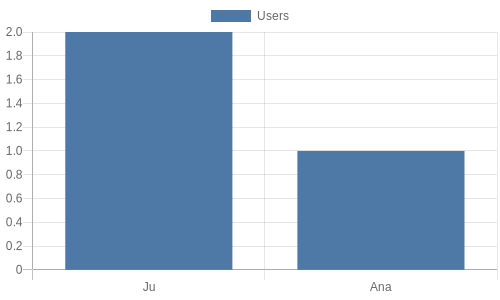
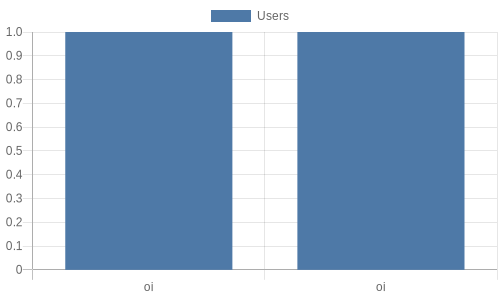
pdf com grafico

diff --git a/src/pdf/content.service.ts b/src/pdf/content.service.ts
@@ -2,11 +2,12 @@ import { Personal } from "@prisma/client";
 import PDFKit from 'pdfkit';
 import { Injectable } from "@nestjs/common";
 import { GenerateHLService } from "./generateHL.service";
+import { ChartService } from "src/chart/charts.service";
 
 // export default (doc: PDFKit.PDFDocument, data: Personal[]) => {
 @Injectable()
 export class ContentService {
-  constructor(private readonly service: GenerateHLService) { }
+  constructor(private readonly service: GenerateHLService, private readonly service2: ChartService) { }
 
   async content(doc: PDFKit.PDFDocument, data: Personal[]) {
     let position = 182;
@@ -37,6 +38,8 @@ export class ContentService {
       doc.font('Helvetica').text(item.cpf, 200, position);
     }
     position = tableTop + data.length * 20 + 20;
+
+    const tabela = await this.service2.generate(1,"oi",1,"oi")
 
     const HL = await this.service.generateHL(doc, 24, 571, position)
   };

diff --git a/src/pdf/pdf.module.ts b/src/pdf/pdf.module.ts
@@ -5,10 +5,11 @@ import { PostPDFController } from "./post-pdf.controller";
 import { PrismaModule } from "src/prisma/prisma.module";
 import { ContentService } from "./content.service";
 import { GenerateHLService } from "./generateHL.service";
+import { ChartService } from "src/chart/charts.service";
 
 @Module({
     imports: [PrismaModule],
     controllers: [PostPDFController],
-    providers: [PrismaService, CreatePDFService, ContentService, GenerateHLService],
+    providers: [PrismaService, CreatePDFService, ContentService, GenerateHLService, ChartService],
 })
 export class PDFModule { }

diff --git a/src/pdf/post-pdf.service.ts b/src/pdf/post-pdf.service.ts
@@ -28,8 +28,10 @@ export class CreatePDFService {
     });
 
     await this.content.content(doc, personal)
-    // ContentService(doc, personal);
+
+    //caminho do projeto
     const test = 'test';
+    doc.image(path.join(__dirname, '..', '..', 'public', 'chart.png'), 50, 45, { width: 50 })
     const filepath = path.join(__dirname, '..', '..', 'public');
     if (!fs.existsSync(filepath)) fs.mkdirSync(filepath);
 
@@ -43,8 +45,4 @@ export class CreatePDFService {
 
     return `${test}.pdf`;
   }
-
-
-  // (() => {
-
 }
